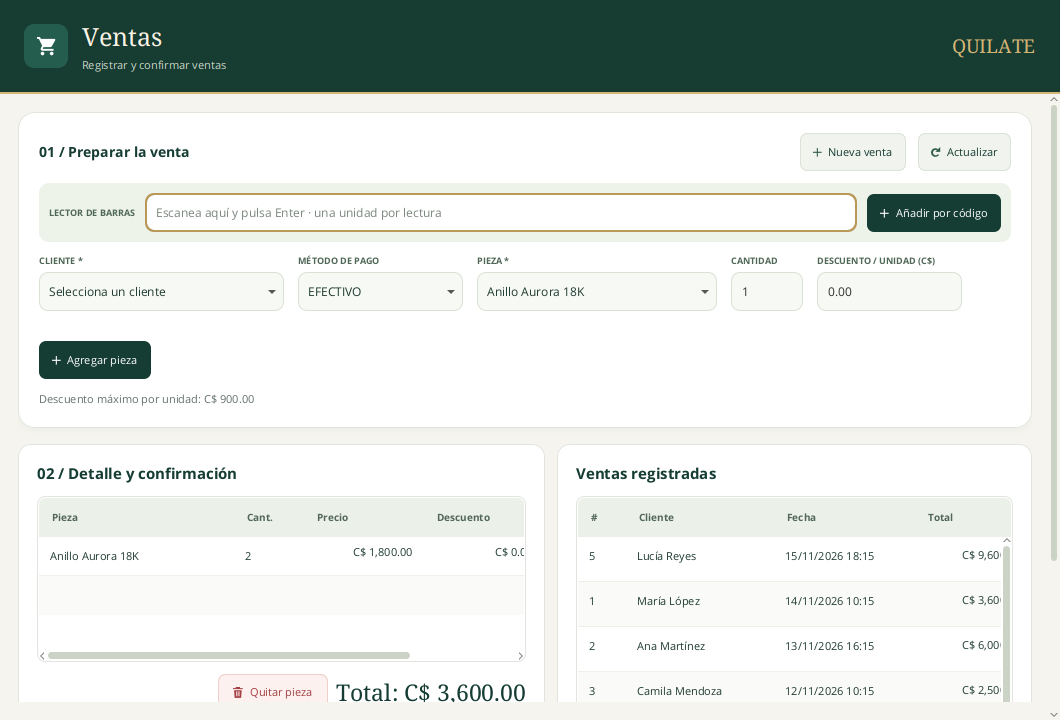
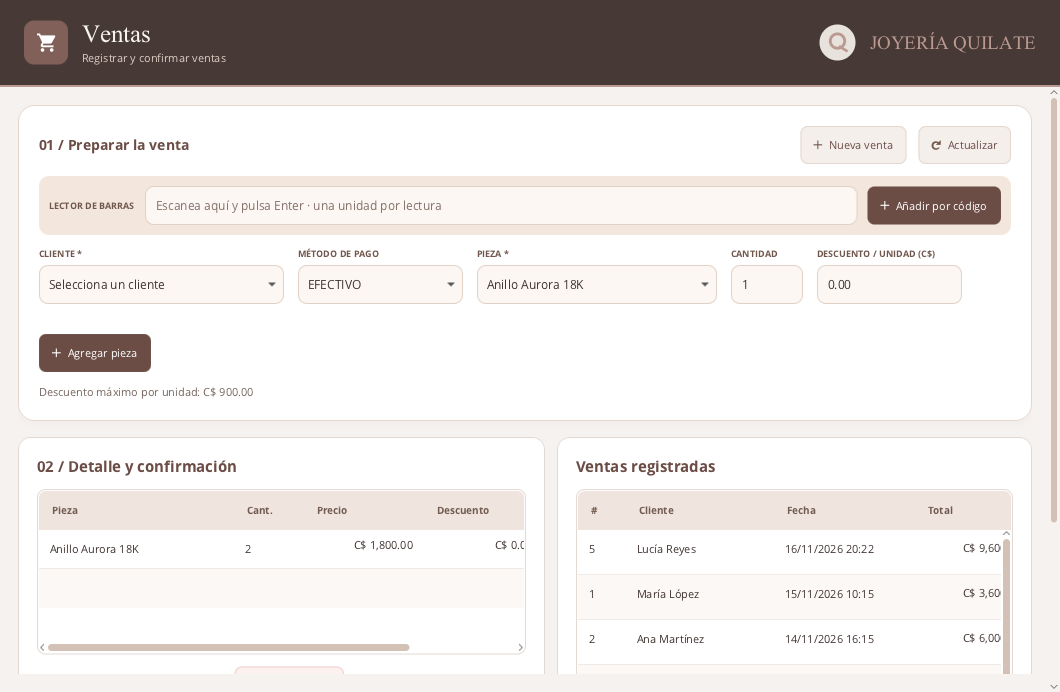
chore: actualizar documentación, scripts y repositorio a Joyería Quilate
Renombra el script 04, regenera las capturas, retira la investigación sobre el negocio real, da permiso de ejecución a mvnw y deja de versionar .idea.

diff --git a/README.md b/README.md
@@ -37,8 +37,10 @@ src/main/resources/
 └── css/styles.css
 src/test/java/           ← pruebas automáticas con H2 en memoria
 database/
-├── 01_quilate_bd_inicial.sql       ← inventario, clientes, apartados, ventas y datos de prueba
-└── 02_pedidos_y_estado_venta.sql   ← tipo_servicio y pedido_personalizado
+├── 01_quilate_bd_inicial.sql       ← inventario, clientes, apartados, ventas y categorías base
+├── 02_pedidos_y_estado_venta.sql   ← tipo_servicio y pedido_personalizado
+├── 03_diseno_personalizado.sql     ← columnas del diseño de cada pedido
+└── 04_reemplazar_datos_demo.sql    ← datos ficticios (borra y reemplaza los existentes)
 ```
 
 ## 1. Preparar PostgreSQL
@@ -51,6 +53,7 @@ database/
    1. `01_quilate_bd_inicial.sql`
    2. `02_pedidos_y_estado_venta.sql`
    3. `03_diseno_personalizado.sql`
+   4. `04_reemplazar_datos_demo.sql` (opcional: carga datos ficticios para practicar)
 
    En pgAdmin: clic derecho sobre `quilate` → **Query Tool** → abrir el archivo → **Execute (F5)**.
    Con `psql`:

diff --git a/database/README.md b/database/README.md
@@ -1,4 +1,4 @@
-# Base de datos · Joyeria Belle
+# Base de datos · Joyería Quilate
 
 ## Instalación nueva
 
@@ -7,7 +7,7 @@ Ejecuta en una base PostgreSQL vacía, en este orden:
 1. 01_quilate_bd_inicial.sql: tablas base y categorías.
 2. 02_pedidos_y_estado_venta.sql: servicios y pedidos.
 3. 03_diseno_personalizado.sql: campos del diseño personalizado.
-4. 04_reemplazar_datos_demo_belle.sql: datos ficticios para practicar.
+4. 04_reemplazar_datos_demo.sql: datos ficticios para practicar.
 
 Los scripts 01 y 02 ya no insertan los clientes, piezas ni servicios anteriores.
 El nombre técnico de la base y la configuración de conexión se mantienen.
@@ -73,4 +73,3 @@ programan desde hoy. El taller debe validar el espacio físico antes de grabar.
 Busca Mujer, Hombre o Unisex en inventario para explorar el catálogo por
 público; son etiquetas dentro del nombre, no una columna nueva.
 
-Consulta la investigación pública en ../docs/JOYERIA_BELLE.md.

diff --git a/LEEME_PRIMERO.md b/LEEME_PRIMERO.md
@@ -4,7 +4,7 @@
 
 Si ya usabas Quilate, abre **pgAdmin**, selecciona tu base de datos de Quilate y ejecuta una vez el archivo **`database/03_diseno_personalizado.sql`**. Agrega las columnas que guardan el grabado y las medidas; conserva tus registros y se puede repetir. No borres ni recrees tu base.
 
-Para una instalación desde cero, ejecuta los scripts `01`, `02` y `03`, en ese orden, sobre tu base PostgreSQL.
+Para una instalación desde cero, ejecuta los scripts `01`, `02` y `03`, en ese orden, sobre tu base PostgreSQL. El `04` es opcional: carga datos ficticios y reemplaza los que tengas.
 
 Después abre la carpeta que contiene `pom.xml` en IntelliJ, selecciona **JDK 21**, recarga Maven y ejecuta `com.quilate.Launcher`. Conserva tu configuración de conexión en `db.properties` o las variables indicadas en README.
 

diff --git a/docs/PERSONALIZACION.md b/docs/PERSONALIZACION.md
@@ -1,4 +1,4 @@
-# Diseños por pedido de Joyeria Belle
+# Diseños por pedido de Joyería Quilate
 
 Cada pedido guarda su propio diseño. Un mismo cliente puede tener varias piezas
 diferentes. Al seleccionar una fila, la vista muestra el grabado, material,
